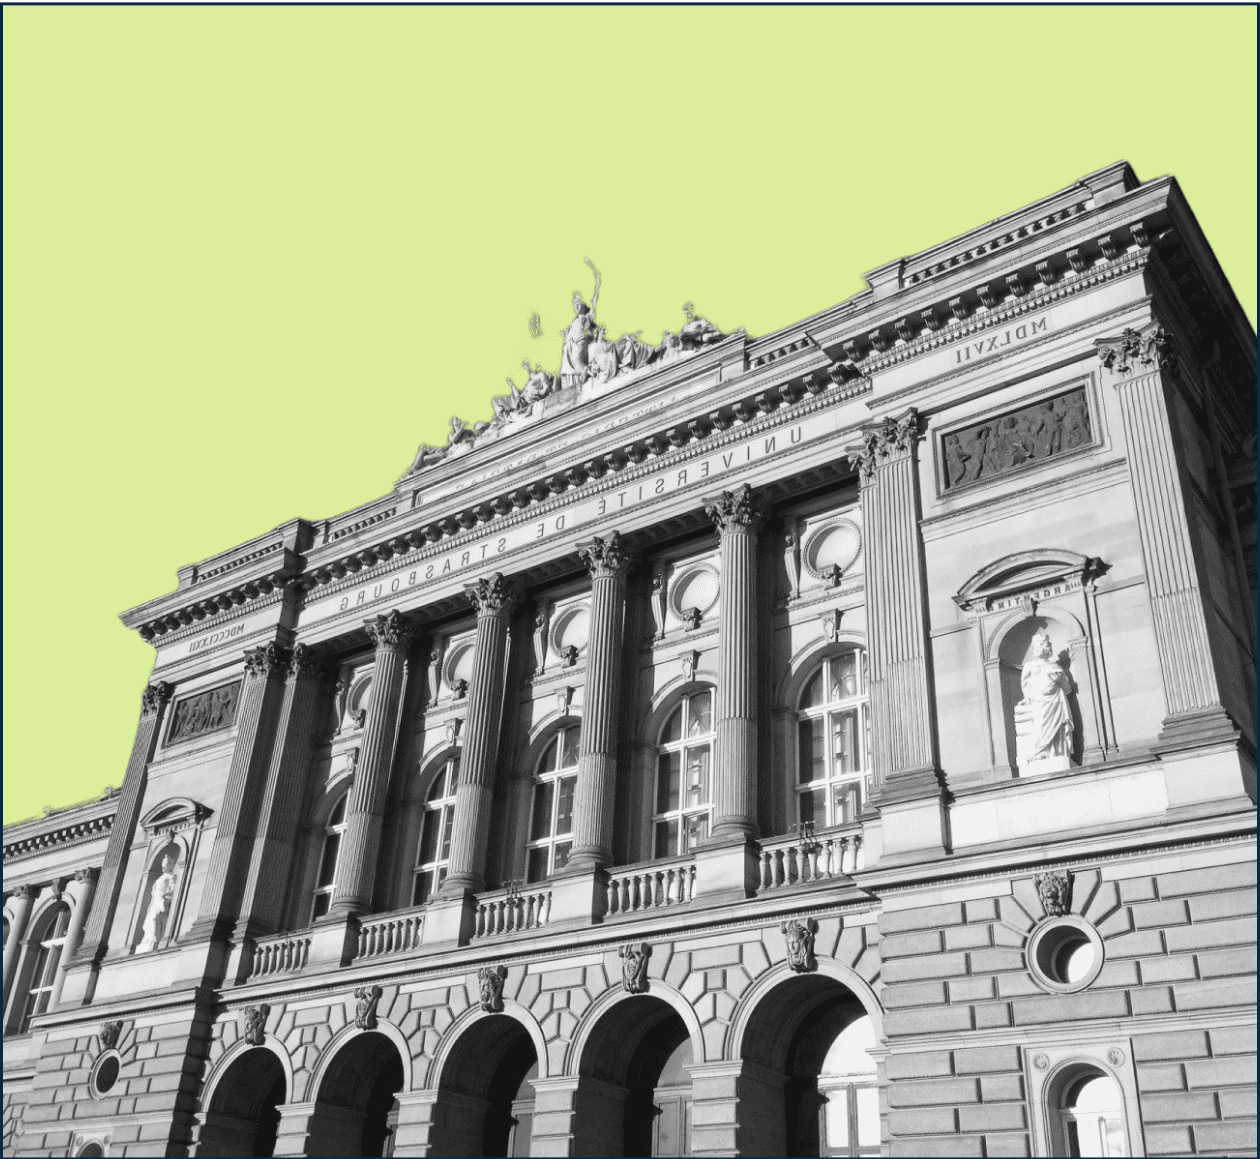
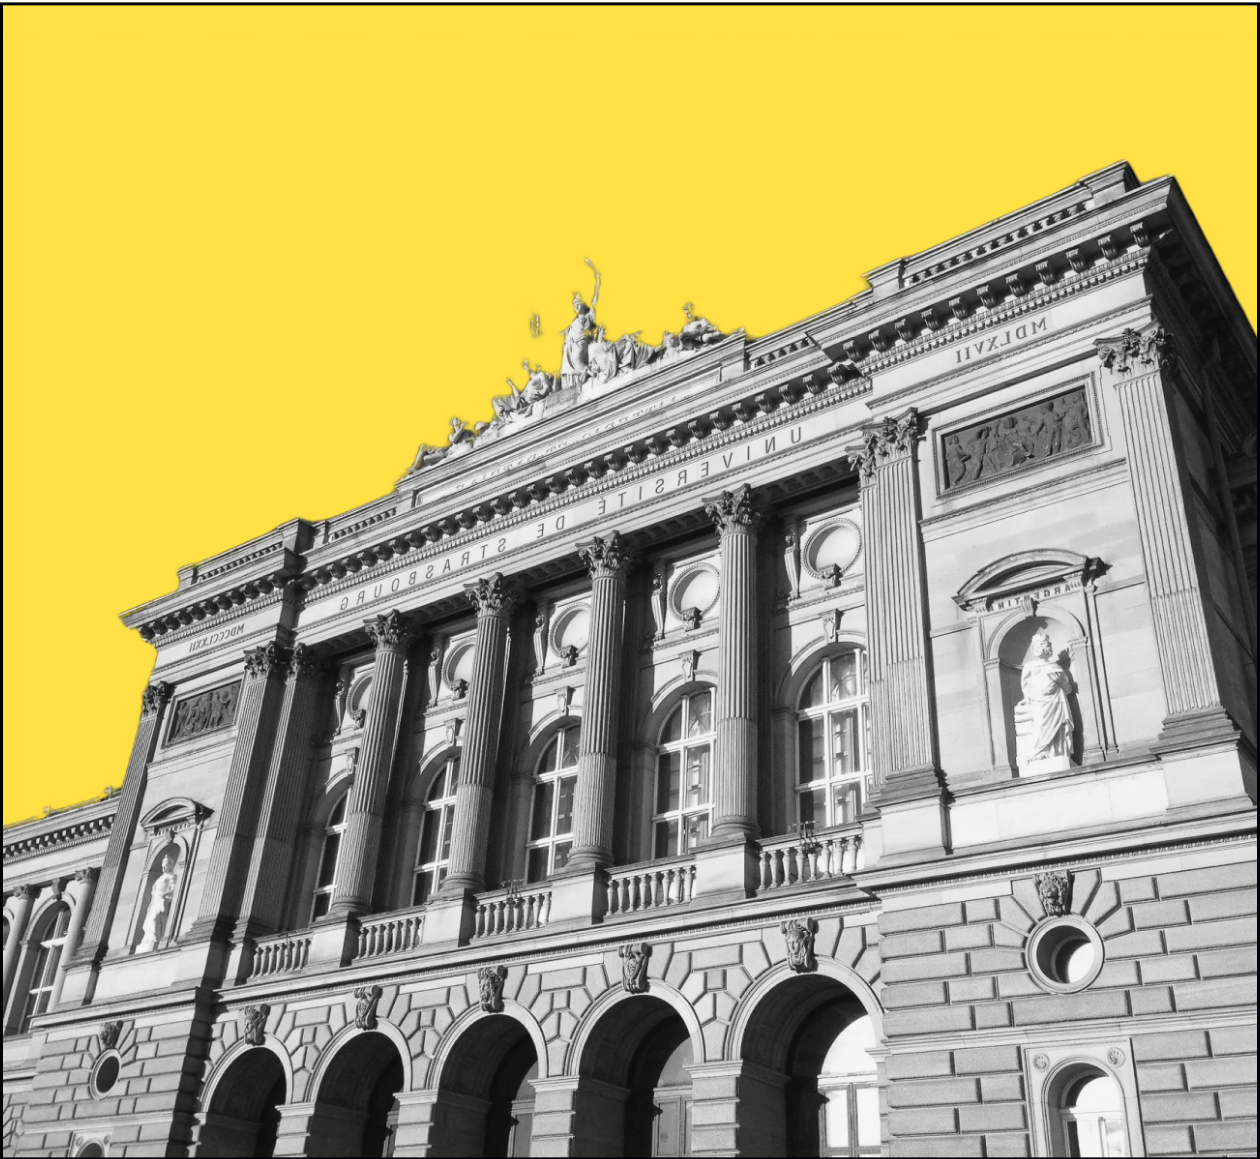
Changed the color scheme

diff --git a/components/HeroSection.vue b/components/HeroSection.vue
@@ -3,7 +3,7 @@
     id="hero-section"
     class="section section--hero">
     <div class="hero--container">
-      <NuxtImg
+      <!-- <NuxtImg
         v-if="colorMode.value === 'light'"
         src="/images/hero-img.png"
         alt="Hero image"
@@ -12,7 +12,7 @@
         v-else
         src="/images/hero-img-dark.png"
         alt="Hero image"
-        class="hero--image" />
+        class="hero--image" /> -->
       <div class="hero--content">
         <div>
           <p class="hero--title">
@@ -23,13 +23,22 @@
             <span class="accent">Strasbourg</span>
           </h1>
         </div>
-        <a href="#contact-section">
-          <Button
-            class="hero--button"
-            type="primary"
-            >Contact me</Button
-          ></a
-        >
+        <div class="buttons">
+          <a href="#contact-section">
+            <Button
+              class="hero--button"
+              type="primary"
+              >Contact me</Button
+            ></a
+          >
+          <a href="#contact-section">
+            <Button
+              class="hero--button"
+              type="secondary"
+              >View works</Button
+            ></a
+          >
+        </div>
       </div>
     </div>
   </div>
@@ -40,11 +49,21 @@
 </script>
 
 <style lang="scss">
+  .buttons {
+    display: flex;
+    gap: 2.4rem;
+  }
   .hero {
     &--container {
       display: flex;
       align-items: center;
       gap: 14rem;
+    }
+    &--title {
+      text-align: center;
+    }
+    &--description {
+      text-align: center;
     }
     &--image {
       width: 50rem;
@@ -54,7 +73,7 @@
       display: flex;
       flex-direction: column;
       gap: 2.4rem;
-      align-items: flex-start;
+      align-items: center;
     }
   }
 

diff --git a/components/Button.vue b/components/Button.vue
@@ -33,10 +33,11 @@
       }
     }
     &--secondary {
-      background-color: $accent-color;
+      background-color: transparent;
       color: $white-color;
+      border: 2px solid $white-color;
       &:hover {
-        background-color: darken($accent-color, 10%);
+        background-color: $accent-color;
       }
     }
   }
@@ -50,10 +51,9 @@
       }
     }
     &--secondary {
-      background-color: $darkaccent-color;
-      color: $black-color;
+      color: $white-color;
       &:hover {
-        background-color: lighten($accent-color, 10%);
+        background-color: $accent-color;
       }
     }
   }

diff --git a/components/NavigationBar.vue b/components/NavigationBar.vue
@@ -3,13 +3,11 @@
     class="navigation"
     :class="{ scrolled: isScrolled }">
     <div class="navigation--logo">
-      <NuxtImg
-        quality="95"
+      <img
         v-if="color.value == 'light'"
         src="/images/Logo.svg"
         alt="logo" />
-      <NuxtImg
-        quality="90"
+      <img
         v-else
         src="/images/Logo-dark.svg"
         alt="logo" />
@@ -266,9 +264,6 @@
   }
   @media (max-width: 1024px) {
     .navigation {
-      &--popup {
-        // padding: 0 3rem;
-      }
       &--logo {
         img {
           height: 6rem;

diff --git a/assets/scss/variables.scss b/assets/scss/variables.scss
@@ -1,8 +1,8 @@
-$primary-color: rgb(255, 245, 226);
-$black-color: #08274a;
-$accent-color: #dbee9b;
+$primary-color: rgb(59, 78, 218);
+$black-color: #05172d;
+$accent-color: #eabb22;
 $gray-color: #868686;
 $white-color: #fff;
 $darkblack-color: #0f0f0f;
-$darkaccent-color: #e49675;
-$darkbody-color: #06231c;
+$darkaccent-color: lighten($accent-color, 20%);
+$darkbody-color: #03082c;

diff --git a/components/ContactSection.vue b/components/ContactSection.vue
@@ -84,7 +84,7 @@
       &__item {
         font-size: 2.2rem;
         font-weight: 400;
-        color: $primary-color;
+        color: $white-color;
       }
       &__socials {
         display: flex;

diff --git a/assets/scss/typography.scss b/assets/scss/typography.scss
@@ -47,7 +47,7 @@ h2 {
   letter-spacing: 1.2px;
 }
 .accent {
-  color: rgba(28, 131, 145, 0.867);
+  color: rgba(224, 198, 26, 0.867);
 }
 .dark-mode .accent {
   color: $darkaccent-color;
